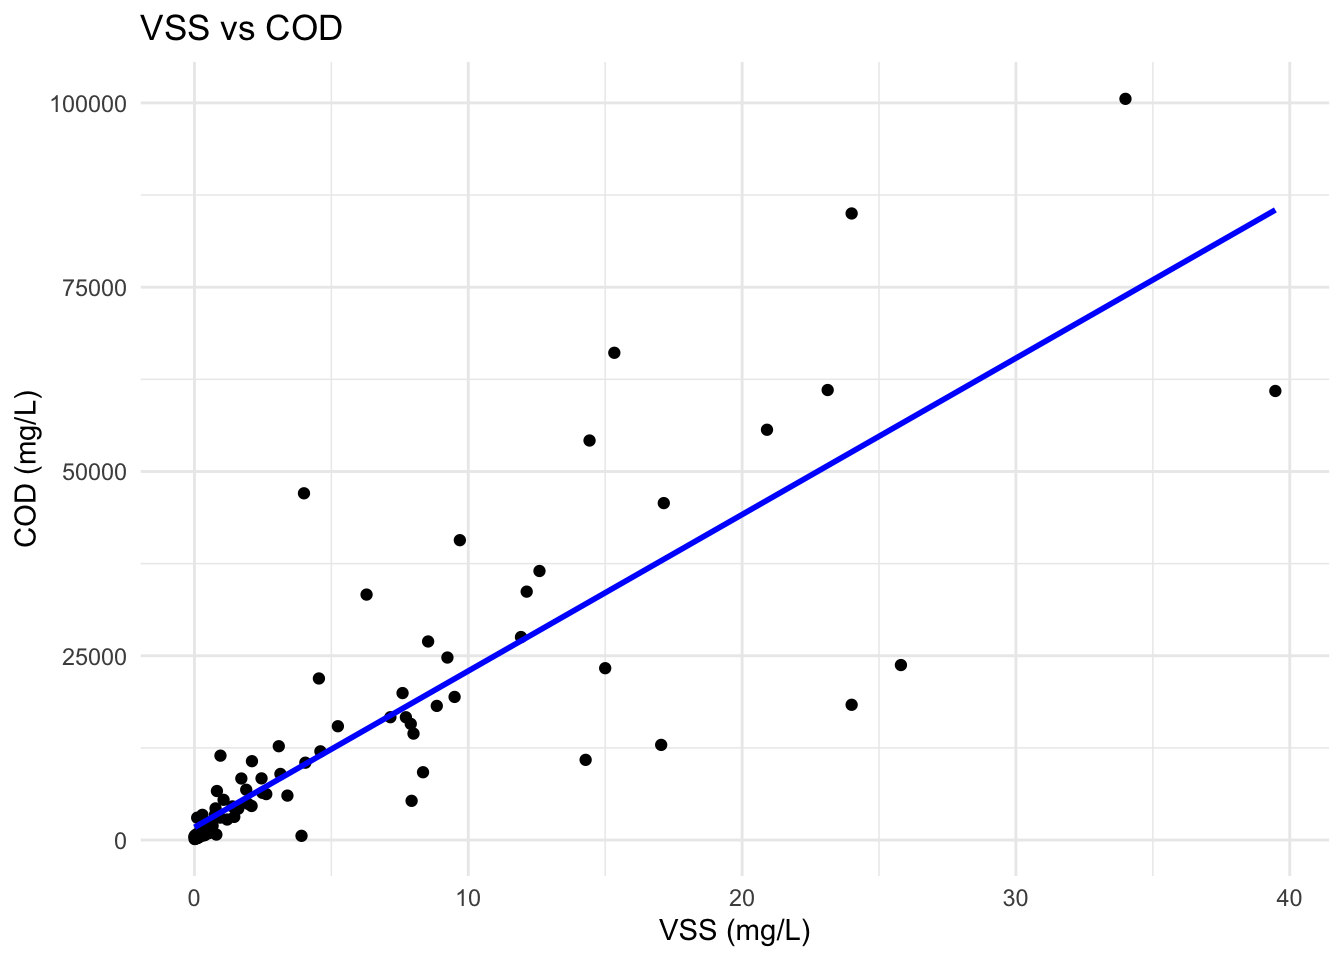
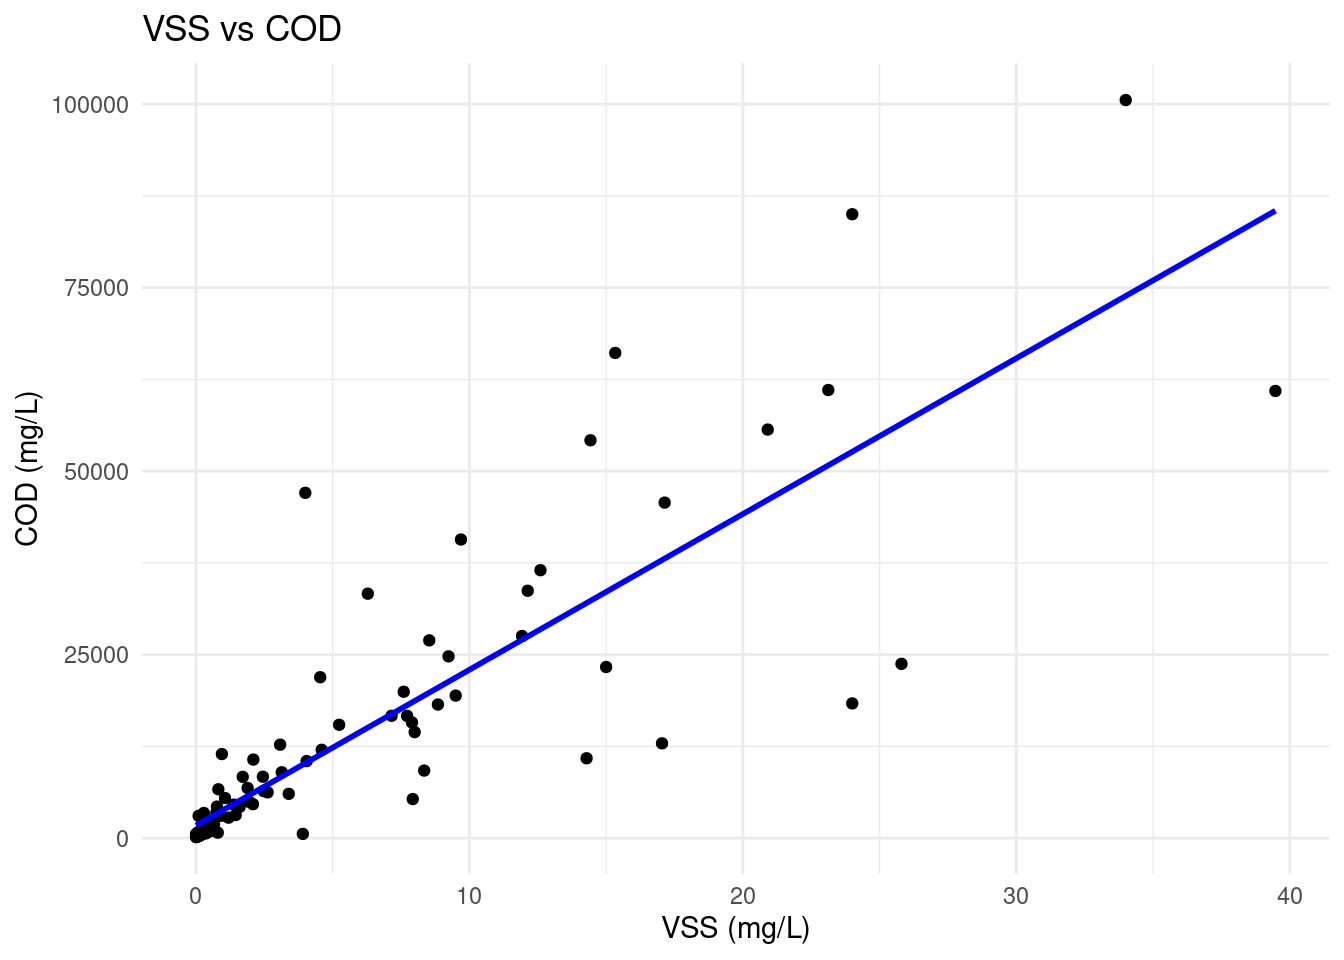
Update raw data

diff --git a/docs/pkgdown.js b/docs/pkgdown.js
@@ -152,11 +152,3 @@ async function searchFuse(query, callback) {
   });
   });
 })(window.jQuery || window.$)
-
-document.addEventListener('keydown', function(event) {
-  // Check if the pressed key is '/'
-  if (event.key === '/') {
-    event.preventDefault();  // Prevent any default action associated with the '/' key
-    document.getElementById('search-input').focus();  // Set focus to the search input
-  }
-});

diff --git a/docs/LICENSE.html b/docs/LICENSE.html
@@ -171,7 +171,7 @@
 </div>
 
 <div class="pkgdown-footer-right">
-  <p>Site built with <a href="https://pkgdown.r-lib.org/" class="external-link">pkgdown</a> 2.1.1.</p>
+  <p>Site built with <a href="https://pkgdown.r-lib.org/" class="external-link">pkgdown</a> 2.1.0.</p>
 </div>
 
     </footer></div>

diff --git a/docs/authors.html b/docs/authors.html
@@ -82,7 +82,7 @@
 </div>
 
 <div class="pkgdown-footer-right">
-  <p>Site built with <a href="https://pkgdown.r-lib.org/" class="external-link">pkgdown</a> 2.1.1.</p>
+  <p>Site built with <a href="https://pkgdown.r-lib.org/" class="external-link">pkgdown</a> 2.1.0.</p>
 </div>
 
     </footer></div>

diff --git a/README.md b/README.md
@@ -42,11 +42,11 @@ library(kableExtra)
 Alternatively, you can download the individual datasets as a CSV or XLSX
 file from the table below.
 
-| dataset | CSV | XLSX |
-|:---|:---|:---|
-| containment | [Download CSV](https://github.com/kelseyshaw/fecalcanuga/raw/main/inst/extdata/containment.csv) | [Download XLSX](https://github.com/kelseyshaw/fecalcanuga/raw/main/inst/extdata/containment.xlsx) |
-| ghg | [Download CSV](https://github.com/kelseyshaw/fecalcanuga/raw/main/inst/extdata/ghg.csv) | [Download XLSX](https://github.com/kelseyshaw/fecalcanuga/raw/main/inst/extdata/ghg.xlsx) |
-| household_survey | [Download CSV](https://github.com/kelseyshaw/fecalcanuga/raw/main/inst/extdata/household_survey.csv) | [Download XLSX](https://github.com/kelseyshaw/fecalcanuga/raw/main/inst/extdata/household_survey.xlsx) |
+| dataset             | CSV                                                                                                     | XLSX                                                                                                      |
+|:--------------------|:--------------------------------------------------------------------------------------------------------|:----------------------------------------------------------------------------------------------------------|
+| containment         | [Download CSV](https://github.com/kelseyshaw/fecalcanuga/raw/main/inst/extdata/containment.csv)         | [Download XLSX](https://github.com/kelseyshaw/fecalcanuga/raw/main/inst/extdata/containment.xlsx)         |
+| ghg                 | [Download CSV](https://github.com/kelseyshaw/fecalcanuga/raw/main/inst/extdata/ghg.csv)                 | [Download XLSX](https://github.com/kelseyshaw/fecalcanuga/raw/main/inst/extdata/ghg.xlsx)                 |
+| household_survey    | [Download CSV](https://github.com/kelseyshaw/fecalcanuga/raw/main/inst/extdata/household_survey.csv)    | [Download XLSX](https://github.com/kelseyshaw/fecalcanuga/raw/main/inst/extdata/household_survey.xlsx)    |
 | phys_chem_parameter | [Download CSV](https://github.com/kelseyshaw/fecalcanuga/raw/main/inst/extdata/phys_chem_parameter.csv) | [Download XLSX](https://github.com/kelseyshaw/fecalcanuga/raw/main/inst/extdata/phys_chem_parameter.xlsx) |
 
 ## Data
@@ -72,7 +72,7 @@ containment |>
   gt::as_raw_html()
 ```
 
-<div id="xsbacgeoso" style="padding-left:0px;padding-right:0px;padding-top:10px;padding-bottom:10px;overflow-x:auto;overflow-y:auto;width:auto;height:auto;">
+<div id="jnzmisvgou" style="padding-left:0px;padding-right:0px;padding-top:10px;padding-bottom:10px;overflow-x:auto;overflow-y:auto;width:auto;height:auto;">
   &#10;  <table class="gt_table" data-quarto-disable-processing="false" data-quarto-bootstrap="false" style="-webkit-font-smoothing: antialiased; -moz-osx-font-smoothing: grayscale; font-family: system-ui, 'Segoe UI', Roboto, Helvetica, Arial, sans-serif, 'Apple Color Emoji', 'Segoe UI Emoji', 'Segoe UI Symbol', 'Noto Color Emoji'; display: table; border-collapse: collapse; line-height: normal; margin-left: auto; margin-right: auto; color: #333333; font-size: 16px; font-weight: normal; font-style: normal; background-color: #FFFFFF; width: auto; border-top-style: solid; border-top-width: 2px; border-top-color: #A8A8A8; border-right-style: none; border-right-width: 2px; border-right-color: #D3D3D3; border-bottom-style: solid; border-bottom-width: 2px; border-bottom-color: #A8A8A8; border-left-style: none; border-left-width: 2px; border-left-color: #D3D3D3;" bgcolor="#FFFFFF">
   <thead style="border-style: none;">
     <tr class="gt_col_headings" style="border-style: none; border-top-style: solid; border-top-width: 2px; border-top-color: #D3D3D3; border-bottom-style: solid; border-bottom-width: 2px; border-bottom-color: #D3D3D3; border-left-style: none; border-left-width: 1px; border-left-color: #D3D3D3; border-right-style: none; border-right-width: 1px; border-right-color: #D3D3D3;">
@@ -277,7 +277,7 @@ ghg |>
   gt::as_raw_html()
 ```
 
-<div id="ebaoujsoss" style="padding-left:0px;padding-right:0px;padding-top:10px;padding-bottom:10px;overflow-x:auto;overflow-y:auto;width:auto;height:auto;">
+<div id="yjtxopasiv" style="padding-left:0px;padding-right:0px;padding-top:10px;padding-bottom:10px;overflow-x:auto;overflow-y:auto;width:auto;height:auto;">
   &#10;  <table class="gt_table" data-quarto-disable-processing="false" data-quarto-bootstrap="false" style="-webkit-font-smoothing: antialiased; -moz-osx-font-smoothing: grayscale; font-family: system-ui, 'Segoe UI', Roboto, Helvetica, Arial, sans-serif, 'Apple Color Emoji', 'Segoe UI Emoji', 'Segoe UI Symbol', 'Noto Color Emoji'; display: table; border-collapse: collapse; line-height: normal; margin-left: auto; margin-right: auto; color: #333333; font-size: 16px; font-weight: normal; font-style: normal; background-color: #FFFFFF; width: auto; border-top-style: solid; border-top-width: 2px; border-top-color: #A8A8A8; border-right-style: none; border-right-width: 2px; border-right-color: #D3D3D3; border-bottom-style: solid; border-bottom-width: 2px; border-bottom-color: #A8A8A8; border-left-style: none; border-left-width: 2px; border-left-color: #D3D3D3;" bgcolor="#FFFFFF">
   <thead style="border-style: none;">
     <tr class="gt_col_headings" style="border-style: none; border-top-style: solid; border-top-width: 2px; border-top-color: #D3D3D3; border-bottom-style: solid; border-bottom-width: 2px; border-bottom-color: #D3D3D3; border-left-style: none; border-left-width: 1px; border-left-color: #D3D3D3; border-right-style: none; border-right-width: 1px; border-right-color: #D3D3D3;">
@@ -436,7 +436,7 @@ household_survey |>
   gt::as_raw_html()
 ```
 
-<div id="geqpzoqmcz" style="padding-left:0px;padding-right:0px;padding-top:10px;padding-bottom:10px;overflow-x:auto;overflow-y:auto;width:auto;height:auto;">
+<div id="iywmteclxv" style="padding-left:0px;padding-right:0px;padding-top:10px;padding-bottom:10px;overflow-x:auto;overflow-y:auto;width:auto;height:auto;">
   &#10;  <table class="gt_table" data-quarto-disable-processing="false" data-quarto-bootstrap="false" style="-webkit-font-smoothing: antialiased; -moz-osx-font-smoothing: grayscale; font-family: system-ui, 'Segoe UI', Roboto, Helvetica, Arial, sans-serif, 'Apple Color Emoji', 'Segoe UI Emoji', 'Segoe UI Symbol', 'Noto Color Emoji'; display: table; border-collapse: collapse; line-height: normal; margin-left: auto; margin-right: auto; color: #333333; font-size: 16px; font-weight: normal; font-style: normal; background-color: #FFFFFF; width: auto; border-top-style: solid; border-top-width: 2px; border-top-color: #A8A8A8; border-right-style: none; border-right-width: 2px; border-right-color: #D3D3D3; border-bottom-style: solid; border-bottom-width: 2px; border-bottom-color: #A8A8A8; border-left-style: none; border-left-width: 2px; border-left-color: #D3D3D3;" bgcolor="#FFFFFF">
   <thead style="border-style: none;">
     <tr class="gt_col_headings" style="border-style: none; border-top-style: solid; border-top-width: 2px; border-top-color: #D3D3D3; border-bottom-style: solid; border-bottom-width: 2px; border-bottom-color: #D3D3D3; border-left-style: none; border-left-width: 1px; border-left-color: #D3D3D3; border-right-style: none; border-right-width: 1px; border-right-color: #D3D3D3;">
@@ -1086,7 +1086,7 @@ phys_chem_parameter |>
   gt::as_raw_html()
 ```
 
-<div id="szuyyiwxvt" style="padding-left:0px;padding-right:0px;padding-top:10px;padding-bottom:10px;overflow-x:auto;overflow-y:auto;width:auto;height:auto;">
+<div id="xiiadginbo" style="padding-left:0px;padding-right:0px;padding-top:10px;padding-bottom:10px;overflow-x:auto;overflow-y:auto;width:auto;height:auto;">
   &#10;  <table class="gt_table" data-quarto-disable-processing="false" data-quarto-bootstrap="false" style="-webkit-font-smoothing: antialiased; -moz-osx-font-smoothing: grayscale; font-family: system-ui, 'Segoe UI', Roboto, Helvetica, Arial, sans-serif, 'Apple Color Emoji', 'Segoe UI Emoji', 'Segoe UI Symbol', 'Noto Color Emoji'; display: table; border-collapse: collapse; line-height: normal; margin-left: auto; margin-right: auto; color: #333333; font-size: 16px; font-weight: normal; font-style: normal; background-color: #FFFFFF; width: auto; border-top-style: solid; border-top-width: 2px; border-top-color: #A8A8A8; border-right-style: none; border-right-width: 2px; border-right-color: #D3D3D3; border-bottom-style: solid; border-bottom-width: 2px; border-bottom-color: #A8A8A8; border-left-style: none; border-left-width: 2px; border-left-color: #D3D3D3;" bgcolor="#FFFFFF">
   <thead style="border-style: none;">
     <tr class="gt_col_headings" style="border-style: none; border-top-style: solid; border-top-width: 2px; border-top-color: #D3D3D3; border-bottom-style: solid; border-bottom-width: 2px; border-bottom-color: #D3D3D3; border-left-style: none; border-left-width: 1px; border-left-color: #D3D3D3; border-right-style: none; border-right-width: 1px; border-right-color: #D3D3D3;">